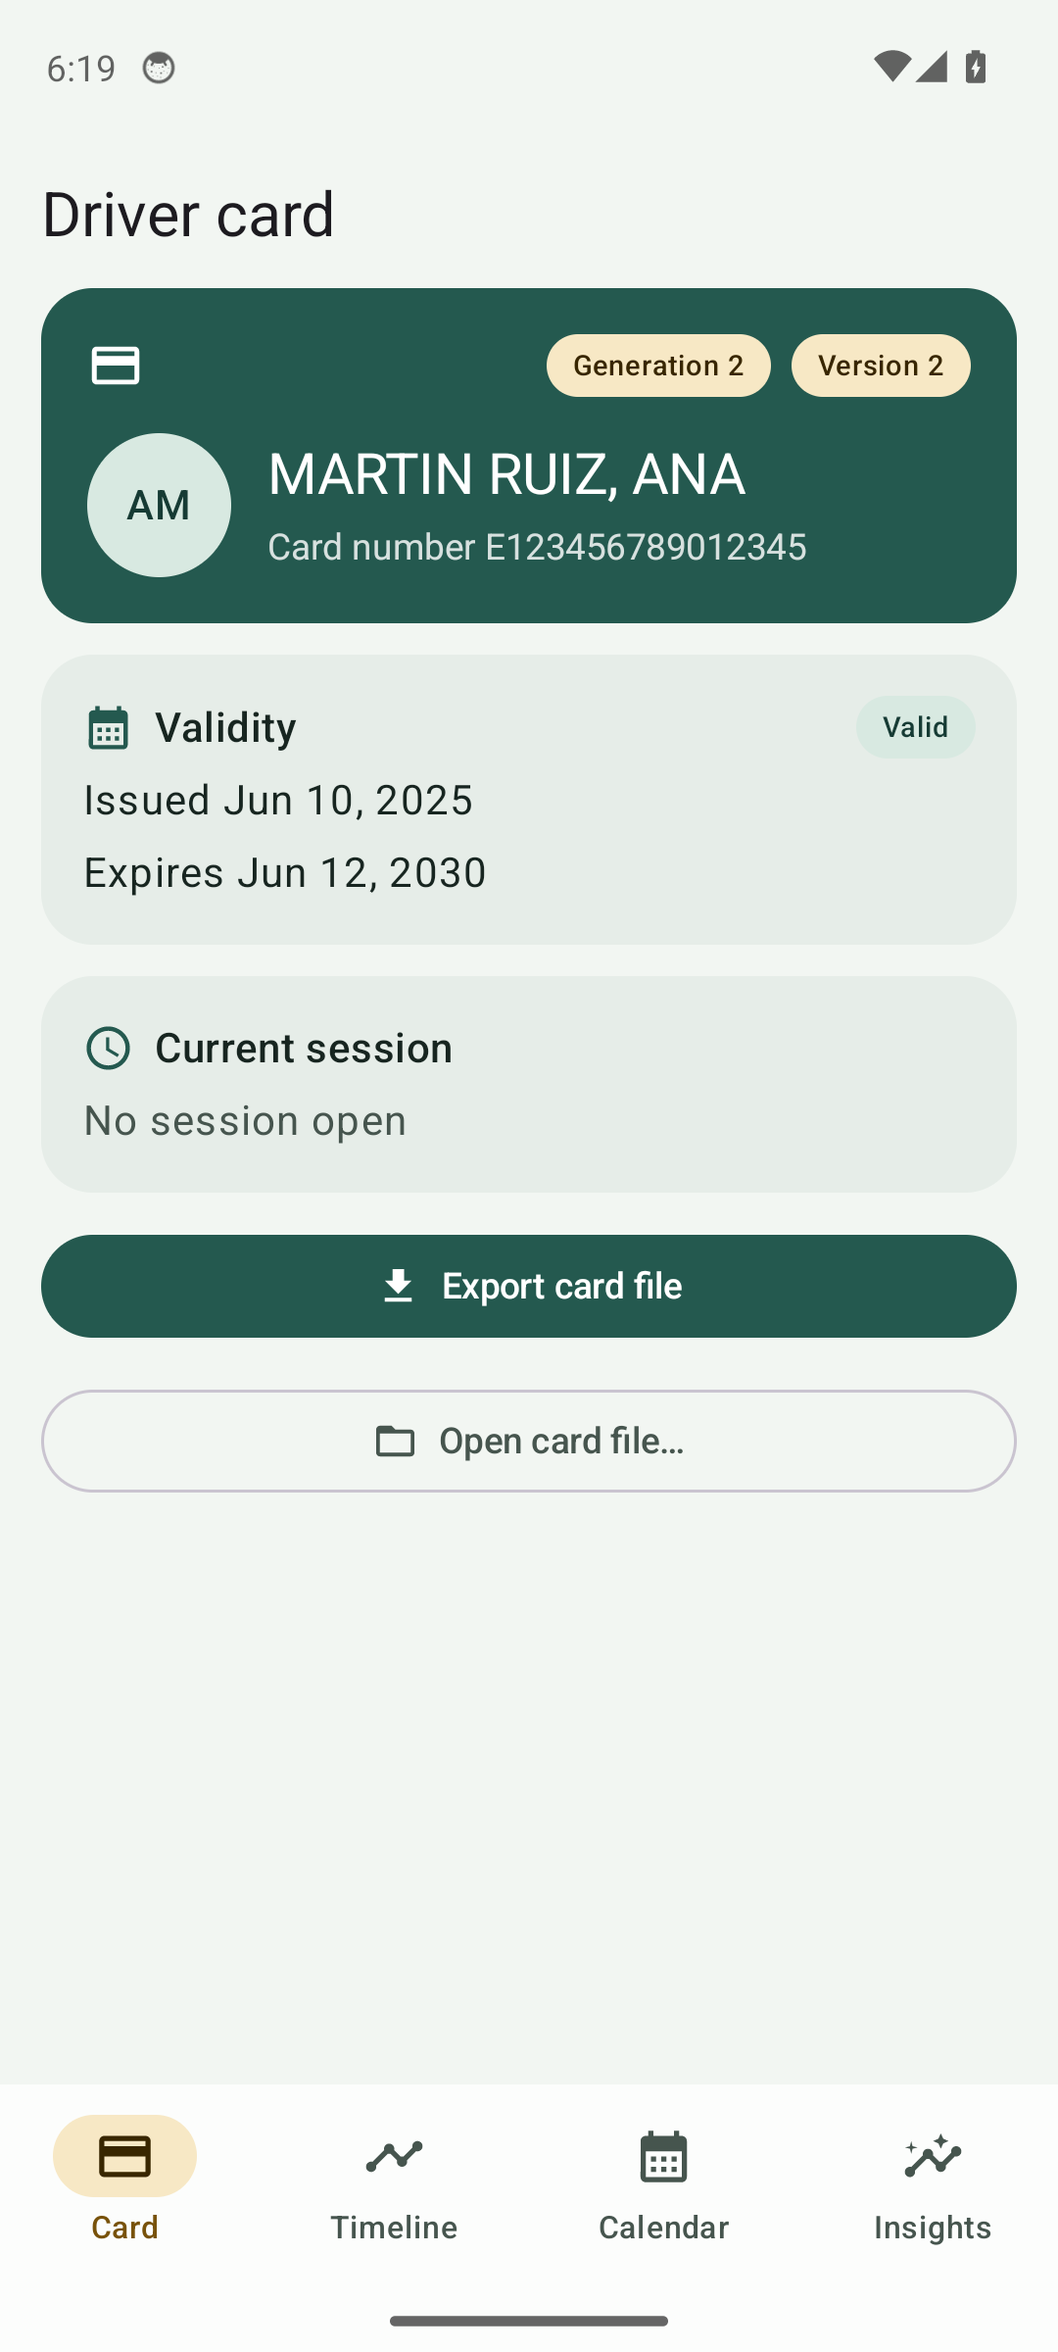
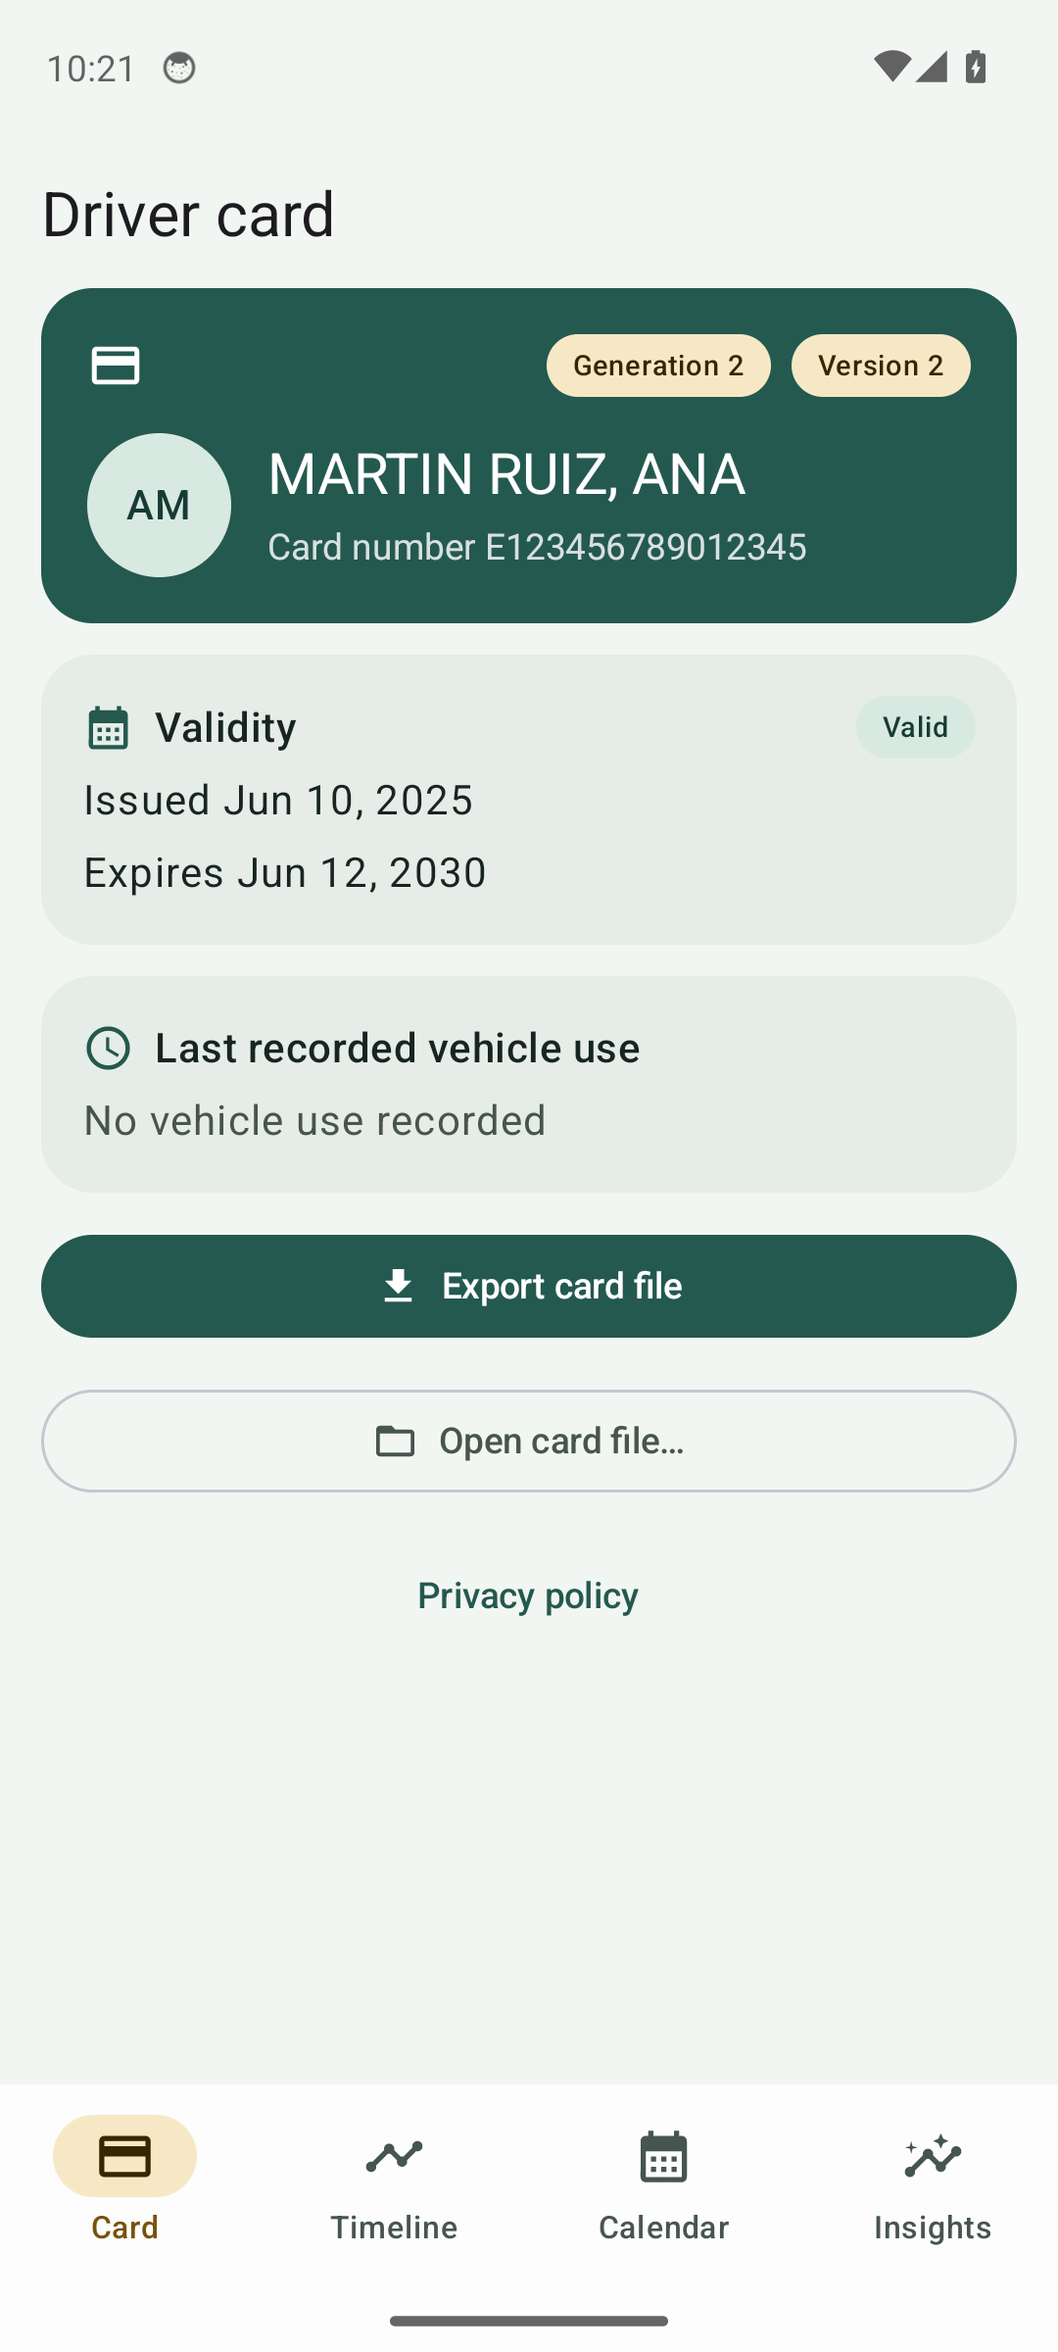
Prepare Tacolega for Play Store release

Changed region(s): [[0.1528, 0.4375, 0.6111, 0.5], [0.3972, 0.6562, 0.6111, 0.6875], [0.1222, 0.0, 0.1833, 0.0312]]

diff --git a/site/privacy-es.html b/site/privacy-es.html
@@ -1,0 +1,59 @@
+<!doctype html>
+<html lang="es">
+<head>
+  <meta charset="utf-8" />
+  <meta name="viewport" content="width=device-width, initial-scale=1" />
+  <title>Política de privacidad | Tacolega</title>
+  <meta name="description" content="Cómo trata la app Android Tacolega los datos de la tarjeta de tacógrafo." />
+  <link rel="icon" href="favicon.svg" type="image/svg+xml" />
+  <link rel="stylesheet" href="style.css" />
+  <link rel="alternate" hreflang="en" href="https://tacho.colega.eu/privacy.html" />
+</head>
+<body>
+  <header class="nav">
+    <div class="container nav-inner">
+      <a class="brand" href="es.html">Tacolega</a>
+      <span class="nav-spacer"></span>
+      <nav class="lang-switch" aria-label="Idioma">
+        <a href="privacy.html">EN</a>
+        <a class="active" href="privacy-es.html">ES</a>
+      </nav>
+    </div>
+  </header>
+
+  <main class="container" style="padding-block: 48px 80px;">
+    <h1>Política de privacidad</h1>
+    <p>Última actualización: 3 de noviembre de 2026</p>
+    <p>Esta política describe cómo la app Android Tacolega trata los datos de una tarjeta de tacógrafo de conductor.</p>
+
+    <h2>Desarrollador y contacto</h2>
+    <p>Tacolega está mantenida por Colega. Para consultas sobre privacidad, usa el <a href="https://github.com/colega/tacho.colega.eu/issues">seguimiento de incidencias del proyecto</a>. Las incidencias son públicas. No publiques archivos de tarjeta, números de tarjeta ni otros datos personales.</p>
+
+    <h2>Datos de la tarjeta que trata la app</h2>
+    <p>Cuando lees una tarjeta con un lector USB CCID compatible o abres un archivo, Tacolega lee y procesa los datos en tu teléfono. Según la tarjeta, pueden incluir el nombre y número del titular, datos del permiso de conducir, actividad, matrículas, eventos y averías, y registros de posición GNSS guardados en la tarjeta.</p>
+
+    <h2>Almacenamiento y conservación local</h2>
+    <p>Tacolega guarda la última descarga en el almacenamiento privado de la app para restaurar la vista de la tarjeta al reiniciar. La descarga guardada se excluye de las copias de seguridad de Android y de las transferencias entre dispositivos. Tacolega no tiene cuentas, analítica, publicidad ni servidores que reciban los datos de la tarjeta.</p>
+    <p>La descarga guardada permanece en el teléfono hasta que leas o importes otra tarjeta, borres el almacenamiento de Tacolega en los ajustes de Android o desinstales la app. El archivo original que abras permanece donde lo guardaste.</p>
+
+    <h2>Exportación y uso compartido</h2>
+    <p>Si eliges Exportar, Android abre el menú para compartir y envía una copia del archivo de tarjeta a la app o destino que selecciones. Esa app o servicio trata la copia según su propia política de privacidad. Los archivos que exportes o compartas quedan fuera del control de Tacolega.</p>
+
+    <h2>Seguridad</h2>
+    <p>La descarga guardada está en el almacenamiento privado de la app en Android. Tacolega no la transmite a un servidor de Tacolega. Protege el teléfono con las opciones de seguridad del dispositivo.</p>
+
+    <h2>Cómo borrar tus datos</h2>
+    <p>Para borrar la copia guardada, borra el almacenamiento de Tacolega en los ajustes de Android o desinstala la app. Borra las copias exportadas por separado en las apps o servicios donde las guardaste o compartiste.</p>
+
+    <h2>Cambios en esta política</h2>
+    <p>Actualizaremos esta página si cambia el tratamiento de datos de la app. La fecha anterior indica la última revisión.</p>
+  </main>
+
+  <footer>
+    <div class="container footer-inner">
+      <span>© 2026 colega. Todos los derechos reservados.</span>
+      <span><a href="es.html">Inicio</a> · <a href="privacy.html">EN</a></span>
+    </div>
+  </footer>
+</body>
+</html>

diff --git a/site/privacy.html b/site/privacy.html
@@ -1,0 +1,59 @@
+<!doctype html>
+<html lang="en">
+<head>
+  <meta charset="utf-8" />
+  <meta name="viewport" content="width=device-width, initial-scale=1" />
+  <title>Privacy policy | Tacolega</title>
+  <meta name="description" content="How the Tacolega Android app handles tachograph card data." />
+  <link rel="icon" href="favicon.svg" type="image/svg+xml" />
+  <link rel="stylesheet" href="style.css" />
+  <link rel="alternate" hreflang="es" href="https://tacho.colega.eu/privacy-es.html" />
+</head>
+<body>
+  <header class="nav">
+    <div class="container nav-inner">
+      <a class="brand" href="index.html">Tacolega</a>
+      <span class="nav-spacer"></span>
+      <nav class="lang-switch" aria-label="Language">
+        <a class="active" href="privacy.html">EN</a>
+        <a href="privacy-es.html">ES</a>
+      </nav>
+    </div>
+  </header>
+
+  <main class="container" style="padding-block: 48px 80px;">
+    <h1>Privacy policy</h1>
+    <p>Last updated: 3 November 2026</p>
+    <p>This policy describes how the Tacolega Android app handles information from a driver tachograph card.</p>
+
+    <h2>Developer and contact</h2>
+    <p>Tacolega is maintained by Colega. For privacy questions, use the <a href="https://github.com/colega/tacho.colega.eu/issues">project issue tracker</a>. Issues are public. Do not post card files, card numbers, or other personal card data there.</p>
+
+    <h2>Card data the app handles</h2>
+    <p>When you read a card with a compatible USB CCID reader or open a card file, Tacolega reads and processes the data on your phone. Depending on the card, this can include the cardholder's name and card number, driving licence details, activity records, vehicle registrations, events and faults, and GNSS position records stored on the card.</p>
+
+    <h2>Local storage and retention</h2>
+    <p>Tacolega saves the latest card dump in the app's private storage so it can restore the card view after a restart. The saved dump is excluded from Android cloud backup and device-to-device transfer. Tacolega has no account system, analytics, advertising, or server that receives card data.</p>
+    <p>The saved dump remains on the phone until another card is read or imported, or you clear Tacolega's app storage or uninstall the app. The original file you open remains wherever you stored it.</p>
+
+    <h2>Export and sharing</h2>
+    <p>If you choose Export, Android opens the share sheet and sends a copy of the card dump to the app or destination you select. That app or service handles the copy under its own privacy policy. Files you export or share are outside Tacolega's control.</p>
+
+    <h2>Security</h2>
+    <p>The saved dump is kept in Android's app-private storage. Tacolega does not transmit it to a Tacolega server. Protect your phone with the device security options available to you.</p>
+
+    <h2>Deleting your data</h2>
+    <p>To delete the saved copy, clear Tacolega's storage in Android settings or uninstall the app. Delete exported copies separately in the apps or services where you saved or shared them.</p>
+
+    <h2>Changes to this policy</h2>
+    <p>We will update this page if the app's data handling changes. The date above shows the latest revision.</p>
+  </main>
+
+  <footer>
+    <div class="container footer-inner">
+      <span>© 2026 colega. All rights reserved.</span>
+      <span><a href="index.html">Home</a> · <a href="privacy-es.html">ES</a></span>
+    </div>
+  </footer>
+</body>
+</html>

diff --git a/site/es.html b/site/es.html
@@ -133,7 +133,7 @@
     <section>
       <div class="container">
         <h2 class="section-title">Tres pasos, treinta segundos</h2>
-        <p class="section-sub">Sin cuenta, sin emparejar, sin cables.</p>
+        <p class="section-sub">Sin cuenta, sin emparejar, sin PC.</p>
         <div class="steps">
           <div class="step"><h3>Conecta el lector</h3><p>Conecta un lector de tarjetas USB a tu teléfono e inserta la tarjeta de conductor.</p></div>
           <div class="step"><h3>Revisa</h3><p>Explora la cronología, el calendario y el análisis. Todo se calcula en tu teléfono.</p></div>
@@ -151,8 +151,8 @@
               <svg width="20" height="20" viewBox="0 0 24 24" fill="none"><rect x="5" y="10" width="14" height="9" rx="2" stroke="#9fc0ff" stroke-width="1.6"/><path d="M8 10V7a4 4 0 118 0v3" stroke="#9fc0ff" stroke-width="1.6"/></svg>
             </div>
             <div>
-              <h3>Nada sale del teléfono</h3>
-              <p>Los datos de la tarjeta se procesan y guardan en tu dispositivo. Las subidas solo ocurren cuando tú exportas o compartes un archivo.</p>
+              <h3>Tus datos de tarjeta se quedan aquí</h3>
+              <p>Tacolega guarda los datos de la tarjeta en este teléfono y no los envía a ningún servidor. La copia guardada se excluye de las copias de seguridad de Android. Al exportar o compartir, solo se transfiere una copia a la app que elijas.</p>
             </div>
           </div>
           <div class="feature">
@@ -180,7 +180,7 @@
   <footer>
     <div class="container footer-inner">
       <span>© 2026 colega. Todos los derechos reservados.</span>
-      <span><a href="index.html">EN</a> · <a href="es.html">ES</a></span>
+      <span><a href="privacy-es.html">Privacidad</a> · <a href="index.html">EN</a> · <a href="es.html">ES</a></span>
     </div>
   </footer>
 </body>

diff --git a/site/index.html b/site/index.html
@@ -134,7 +134,7 @@
     <section>
       <div class="container">
         <h2 class="section-title">Three steps, thirty seconds</h2>
-        <p class="section-sub">No account, no pairing, no cables.</p>
+        <p class="section-sub">No account, no pairing, no PC.</p>
         <div class="steps">
           <div class="step"><h3>Plug in the reader</h3><p>Connect a USB card reader to your phone and insert the driver card.</p></div>
           <div class="step"><h3>Review</h3><p>Browse the timeline, calendar and insights. Everything is computed on your phone.</p></div>
@@ -152,8 +152,8 @@
               <svg width="20" height="20" viewBox="0 0 24 24" fill="none"><rect x="5" y="10" width="14" height="9" rx="2" stroke="#9fc0ff" stroke-width="1.6"/><path d="M8 10V7a4 4 0 118 0v3" stroke="#9fc0ff" stroke-width="1.6"/></svg>
             </div>
             <div>
-              <h3>Nothing leaves the phone</h3>
-              <p>Card data is parsed and stored on your device. Uploads only happen when you export or share a file yourself.</p>
+              <h3>Your card data stays local</h3>
+              <p>Tacolega stores card data on this phone and does not send it to a server. The saved dump is excluded from Android backup. Export or share transfers a copy only to the app you choose.</p>
             </div>
           </div>
           <div class="feature">
@@ -181,7 +181,7 @@
   <footer>
     <div class="container footer-inner">
       <span>© 2026 colega. All rights reserved.</span>
-      <span><a href="index.html">EN</a> · <a href="es.html">ES</a></span>
+      <span><a href="privacy.html">Privacy policy</a> · <a href="index.html">EN</a> · <a href="es.html">ES</a></span>
     </div>
   </footer>
 </body>

diff --git a/app/src/main/kotlin/eu/colega/tacho/app/ui/CardScreen.kt b/app/src/main/kotlin/eu/colega/tacho/app/ui/CardScreen.kt
@@ -43,6 +43,7 @@ import androidx.compose.runtime.setValue
 import androidx.compose.ui.Alignment
 import androidx.compose.ui.Modifier
 import androidx.compose.ui.platform.LocalContext
+import androidx.compose.ui.platform.LocalUriHandler
 import androidx.compose.ui.res.stringResource
 import androidx.compose.ui.unit.dp
 import androidx.hilt.lifecycle.viewmodel.compose.hiltViewModel
@@ -54,7 +55,7 @@ import eu.colega.tacho.core.tachograph.HolderName
 import eu.colega.tacho.core.tachograph.efName
 import java.time.LocalDate
 
-/** Card overview: holder identity, validity, current session and raw-data export. */
+/** Card overview: holder identity, validity, last recorded vehicle use and card file actions. */
 @Composable
 fun CardScreen(
     viewModel: CardViewModel = hiltViewModel(),
@@ -63,6 +64,8 @@ fun CardScreen(
 ) {
     val state by viewModel.state.collectAsState()
     val context = LocalContext.current
+    val uriHandler = LocalUriHandler.current
+    val privacyPolicyUrl = stringResource(R.string.privacy_policy_url)
     Column(
         modifier = Modifier
             .fillMaxSize()
@@ -113,6 +116,12 @@ fun CardScreen(
                 Icon(Icons.Filled.FolderOpen, contentDescription = null, modifier = Modifier.size(18.dp))
                 Text(stringResource(R.string.card_import_dump), Modifier.padding(start = 8.dp))
             }
+        }
+        TextButton(
+            onClick = { uriHandler.openUri(privacyPolicyUrl) },
+            modifier = Modifier.align(Alignment.CenterHorizontally),
+        ) {
+            Text(stringResource(R.string.privacy_policy))
         }
     }
 }

diff --git a/store/listing-es.md b/store/listing-es.md
@@ -4,17 +4,17 @@
 Tacolega — tarjeta tacógrafo
 
 ## Descripción corta (máx. 80 caracteres)
-Descarga tu tarjeta de tacógrafo UE por NFC. Cronología, calendario y análisis.
+Lee tu tarjeta de tacógrafo con un lector USB. Cronología, calendario, análisis.
 
 ## Descripción completa
 Tacolega convierte tu tarjeta de tacógrafo europea en algo que de verdad puedes usar.
 
-Apoya tu tarjeta de conductor en la parte trasera de tu teléfono con NFC y la app lee
-todos sus archivos: sin cables, sin PC, sin visita al taller.
+Conecta un lector USB CCID compatible a tu teléfono Android con USB OTG e
+inserta tu tarjeta. También puedes abrir un archivo `.tcd` exportado antes.
 
 QUÉ OBTIENES
 
-• Resumen de la tarjeta: titular, número, fechas de validez, sesión actual y versión.
+• Resumen de la tarjeta: titular, número, validez, último uso del vehículo y versión.
 • Cronología: cada día como una barra de 24 h con código de color: conducción, trabajo,
   disponibilidad, pausa y descanso.
 • Calendario: vista mensual donde cada día se colorea según lo que condujiste.
@@ -34,13 +34,19 @@ COMPATIBLE CON
 
 • Tarjetas de conductor, generación 1 y 2 (tacógrafo inteligente)
 • El diseño de la enmienda de 2021: cruces de frontera, carga y descarga y archivos GNSS
-• Cualquier teléfono con NFC (Android 8.0 o superior)
+• Android 8.0 o superior; USB host/OTG y lector CCID compatible para lectura
+  directa, o archivos `.tcd` para abrir
 
 PRIVACIDAD
 
-Los datos de tu tarjeta nunca salen del teléfono salvo que tú los exportes. Sin cuenta,
-sin rastreo, sin subidas.
+Los datos se procesan y guardan en tu teléfono. Tacolega no los envía a ningún
+servidor. La copia guardada se excluye de las copias de seguridad de Android.
+Al exportar o compartir, la app que elijas recibe una copia. Sin cuenta,
+anuncios ni rastreo.
 
 Nota: Tacolega es una herramienta independiente para conductores. No es un equipo
 oficial conforme al Reglamento (UE) 165/2014 y no sustituye a la unidad de vehículo ni a
 ningún registro oficial.
+
+## URL de la política de privacidad
+https://tacho.colega.eu/privacy-es.html

diff --git a/store/listing-en.md b/store/listing-en.md
@@ -4,17 +4,17 @@
 Tacolega — tachograph card
 
 ## Short description (max 80 chars)
-Download your EU tachograph card over NFC. Timeline, calendar and driving-time insights.
+Read your EU tachograph card with a USB reader. Timeline, calendar, insights.
 
 ## Full description
 Tacolega turns your European tachograph card into something you can actually use.
 
-Hold your driver card against the back of your NFC phone and the app reads every file
-on it — no cables, no PC, no workshop visit.
+Connect a compatible USB CCID reader to your Android phone with USB OTG,
+then insert your card. You can also open a previously exported `.tcd` file.
 
 WHAT YOU GET
 
-• Card overview — holder, card number, validity dates, current session, card version.
+• Card overview — holder, card number, validity, last recorded vehicle use, card version.
 • Timeline — each day as a colour-coded 24-hour bar: driving, work, availability, break, rest.
 • Calendar — a month view where every day is coloured by how much you drove.
 • Insights — your driving totals against the EU limits and a clear list of any rule
@@ -33,13 +33,18 @@ WORKS WITH
 • Driver tachograph cards, generation 1 and generation 2 (smart tachograph)
 • The 2021 amendment layout: border crossings, load/unload operations and GNSS
   position files
-• Any phone with NFC (Android 8.0+)
+• Android 8.0+; USB host/OTG and a compatible CCID reader for direct reads, or
+  `.tcd` files for import
 
 PRIVACY
 
-Your card data never leaves the phone unless you export it yourself. No account,
-no tracking, no uploads.
+Card data is processed and saved on your phone. Tacolega does not send it to a
+server. The saved card dump is excluded from Android backup. When you export
+or share, the app you choose receives a copy. No account, ads or tracking.
 
 Note: Tacolega is an independent tool for drivers. It is not official equipment
 under Regulation (EU) 165/2014 and does not replace the vehicle unit or any official
 record.
+
+## Privacy policy URL
+https://tacho.colega.eu/privacy.html

diff --git a/README.md b/README.md
@@ -11,7 +11,7 @@ insights checked against Regulation (EC) No 561/2006.
 |---|---|---|---|
 | ![](docs/screenshots/card.png) | ![](docs/screenshots/timeline.png) | ![](docs/screenshots/calendar.png) | ![](docs/screenshots/insights.png) |
 
-- **Card** — holder, validity, current session, file export and import.
+- **Card** — holder, validity, last recorded vehicle use, file export and import.
 - **Timeline** — daily activity as a colour-coded 24 h bar.
 - **Calendar** — month view with driving intensity per day.
 - **Insights** — weekly totals and EU rule violations.
@@ -58,7 +58,7 @@ and load/unload files introduced for version 2 cards.
 ```bash
 ./gradlew :app:assembleDebug     # debug APK
 ./gradlew test                   # all unit tests (core + app, Robolectric)
-./gradlew :app:assembleRelease   # release APK (needs signing config)
+./gradlew :app:bundleRelease    # Play AAB (requires keystore.properties)
 ```
 
 Requirements: JDK 17+, Android SDK (compileSdk 37). `local.properties` points
@@ -75,10 +75,12 @@ keyAlias=upload
 keyPassword=…
 ```
 
-`./gradlew :app:assembleRelease` then signs with that key. Without the file,
-release builds fall back to the debug key (CI-friendly). Play Store listing
-text lives in `store/` (English and Spanish), together with the 512 px icon
-and the 1024×500 feature graphic.
+`./gradlew :app:bundleRelease` builds a signed Play upload bundle and requires
+a real upload key in `keystore.properties`. Keep the key and passwords out of
+source control. Use Play App Signing for distribution. `assembleRelease` may
+use the debug key for CI; do not upload that APK.
+
+The Play listing copy, 512 px icon and 1024×500 feature graphic live in `store/`.
 
 ## Testing
 
